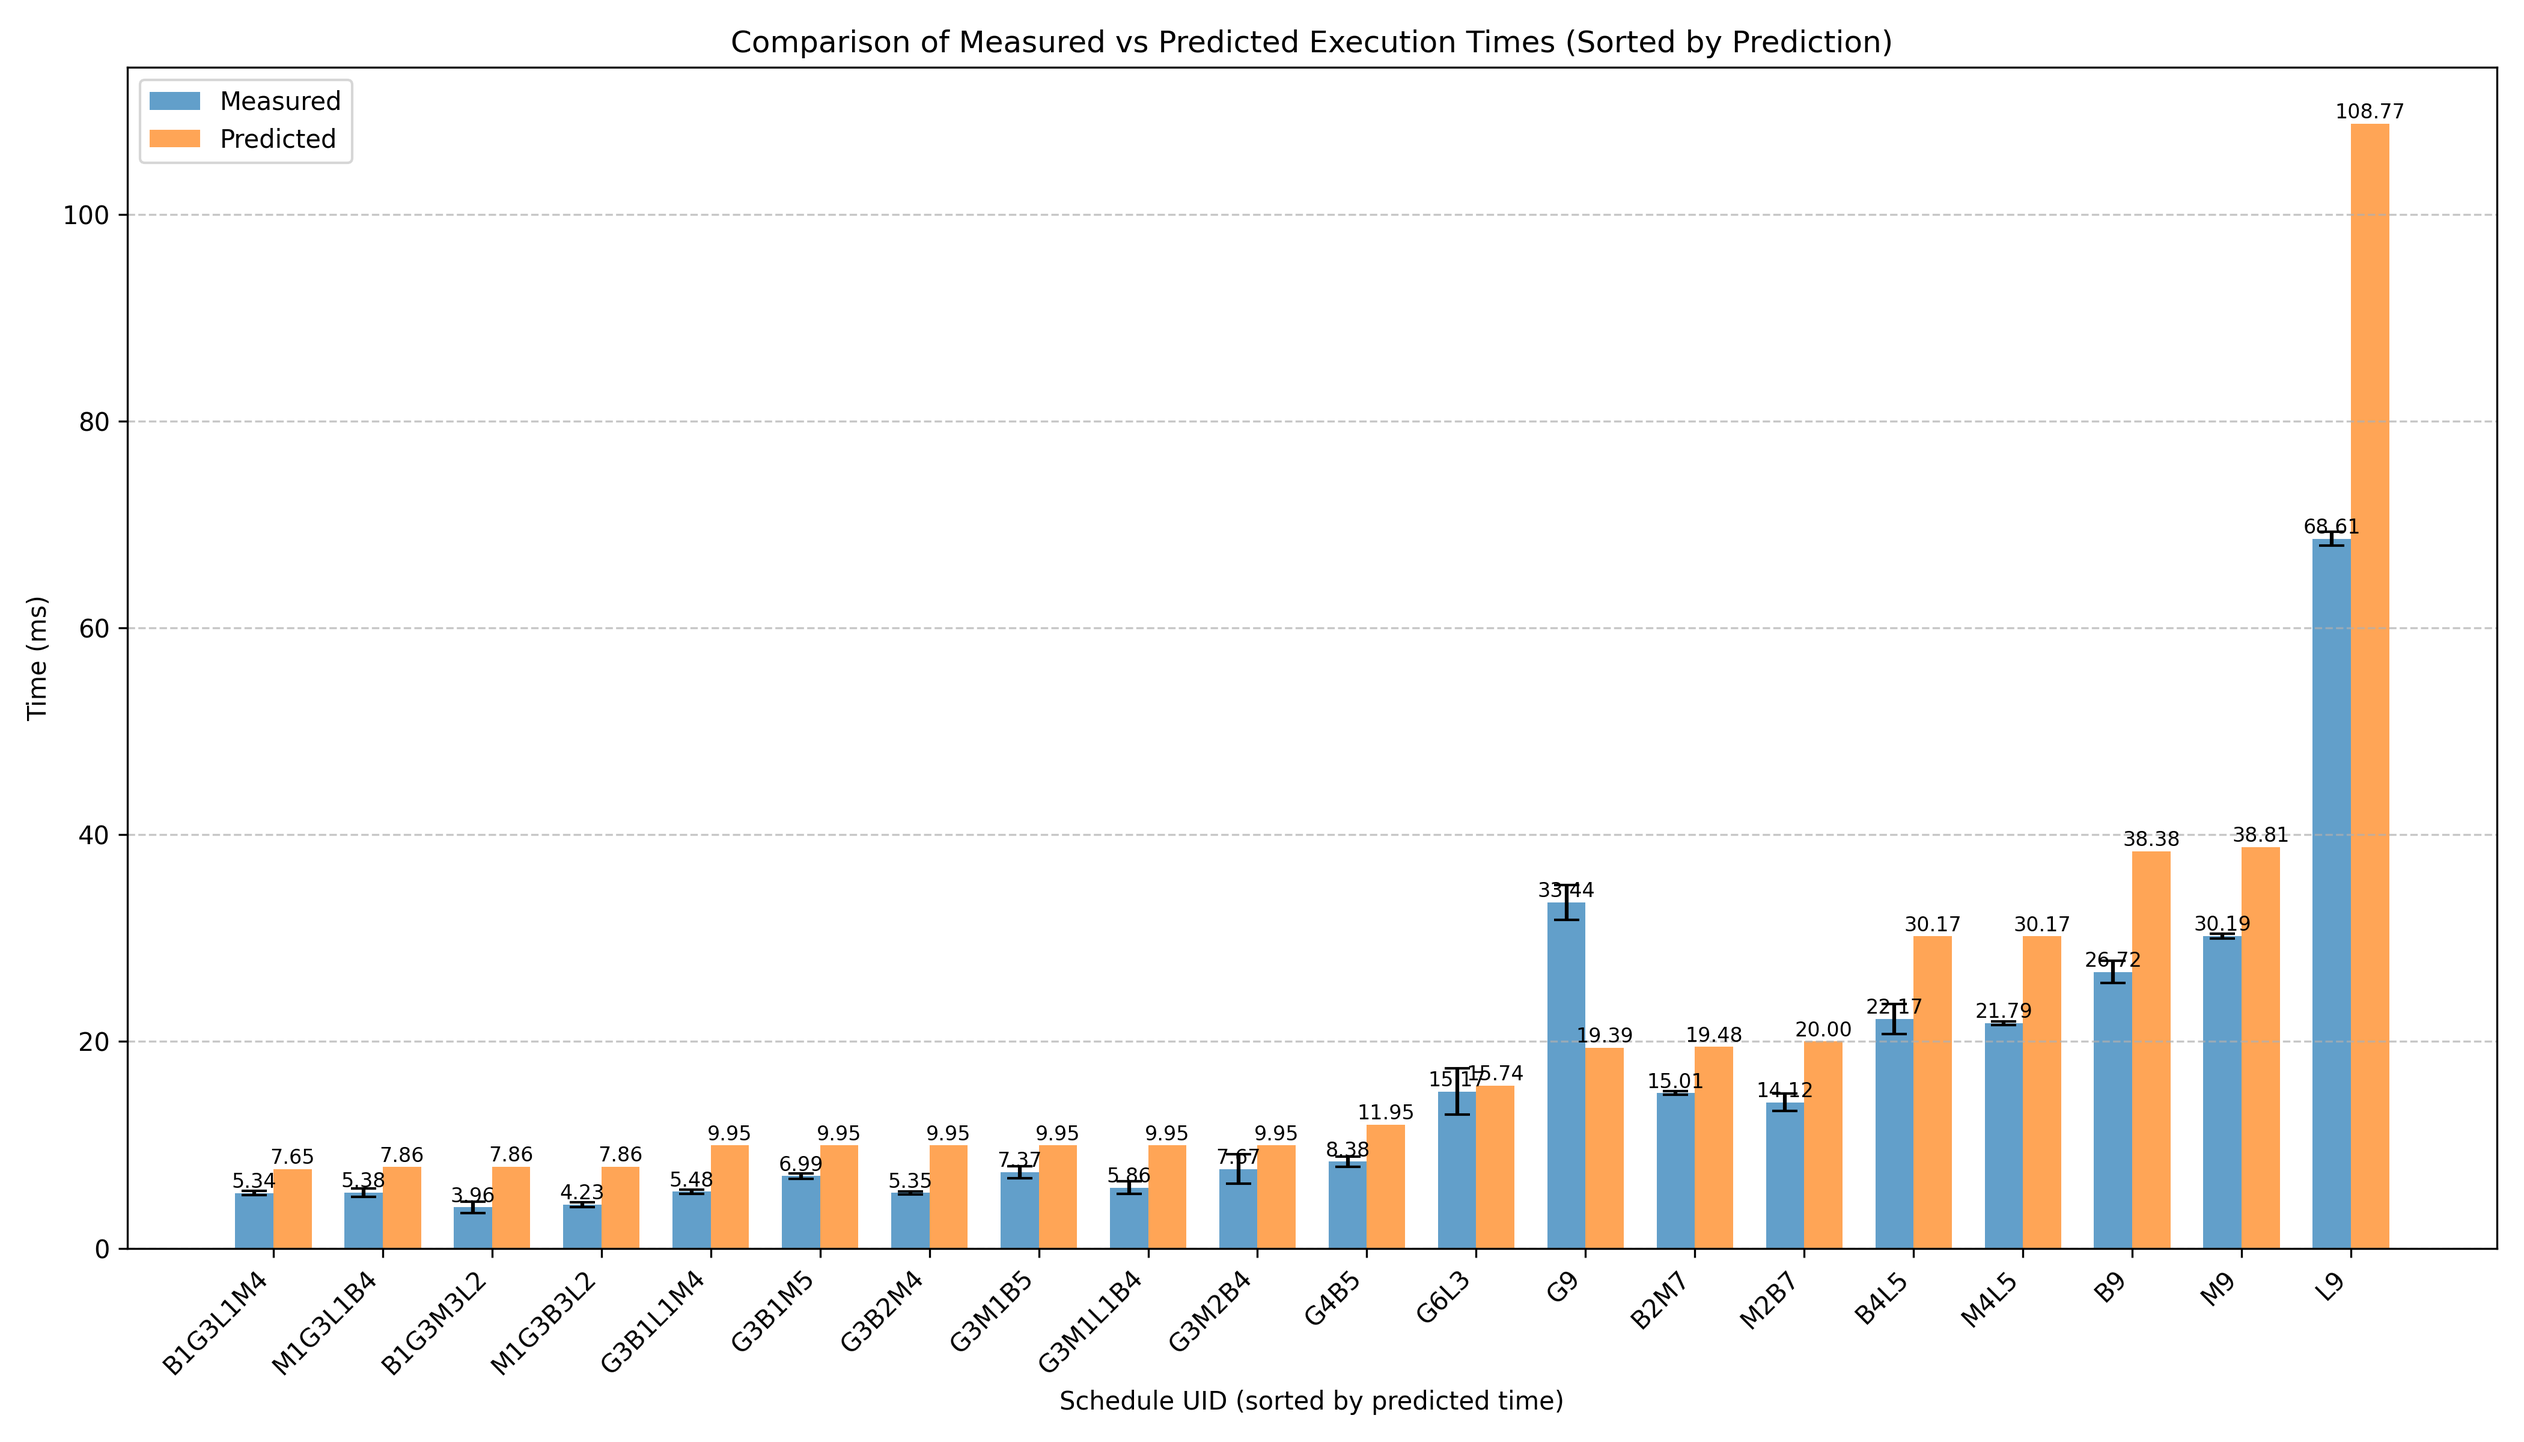
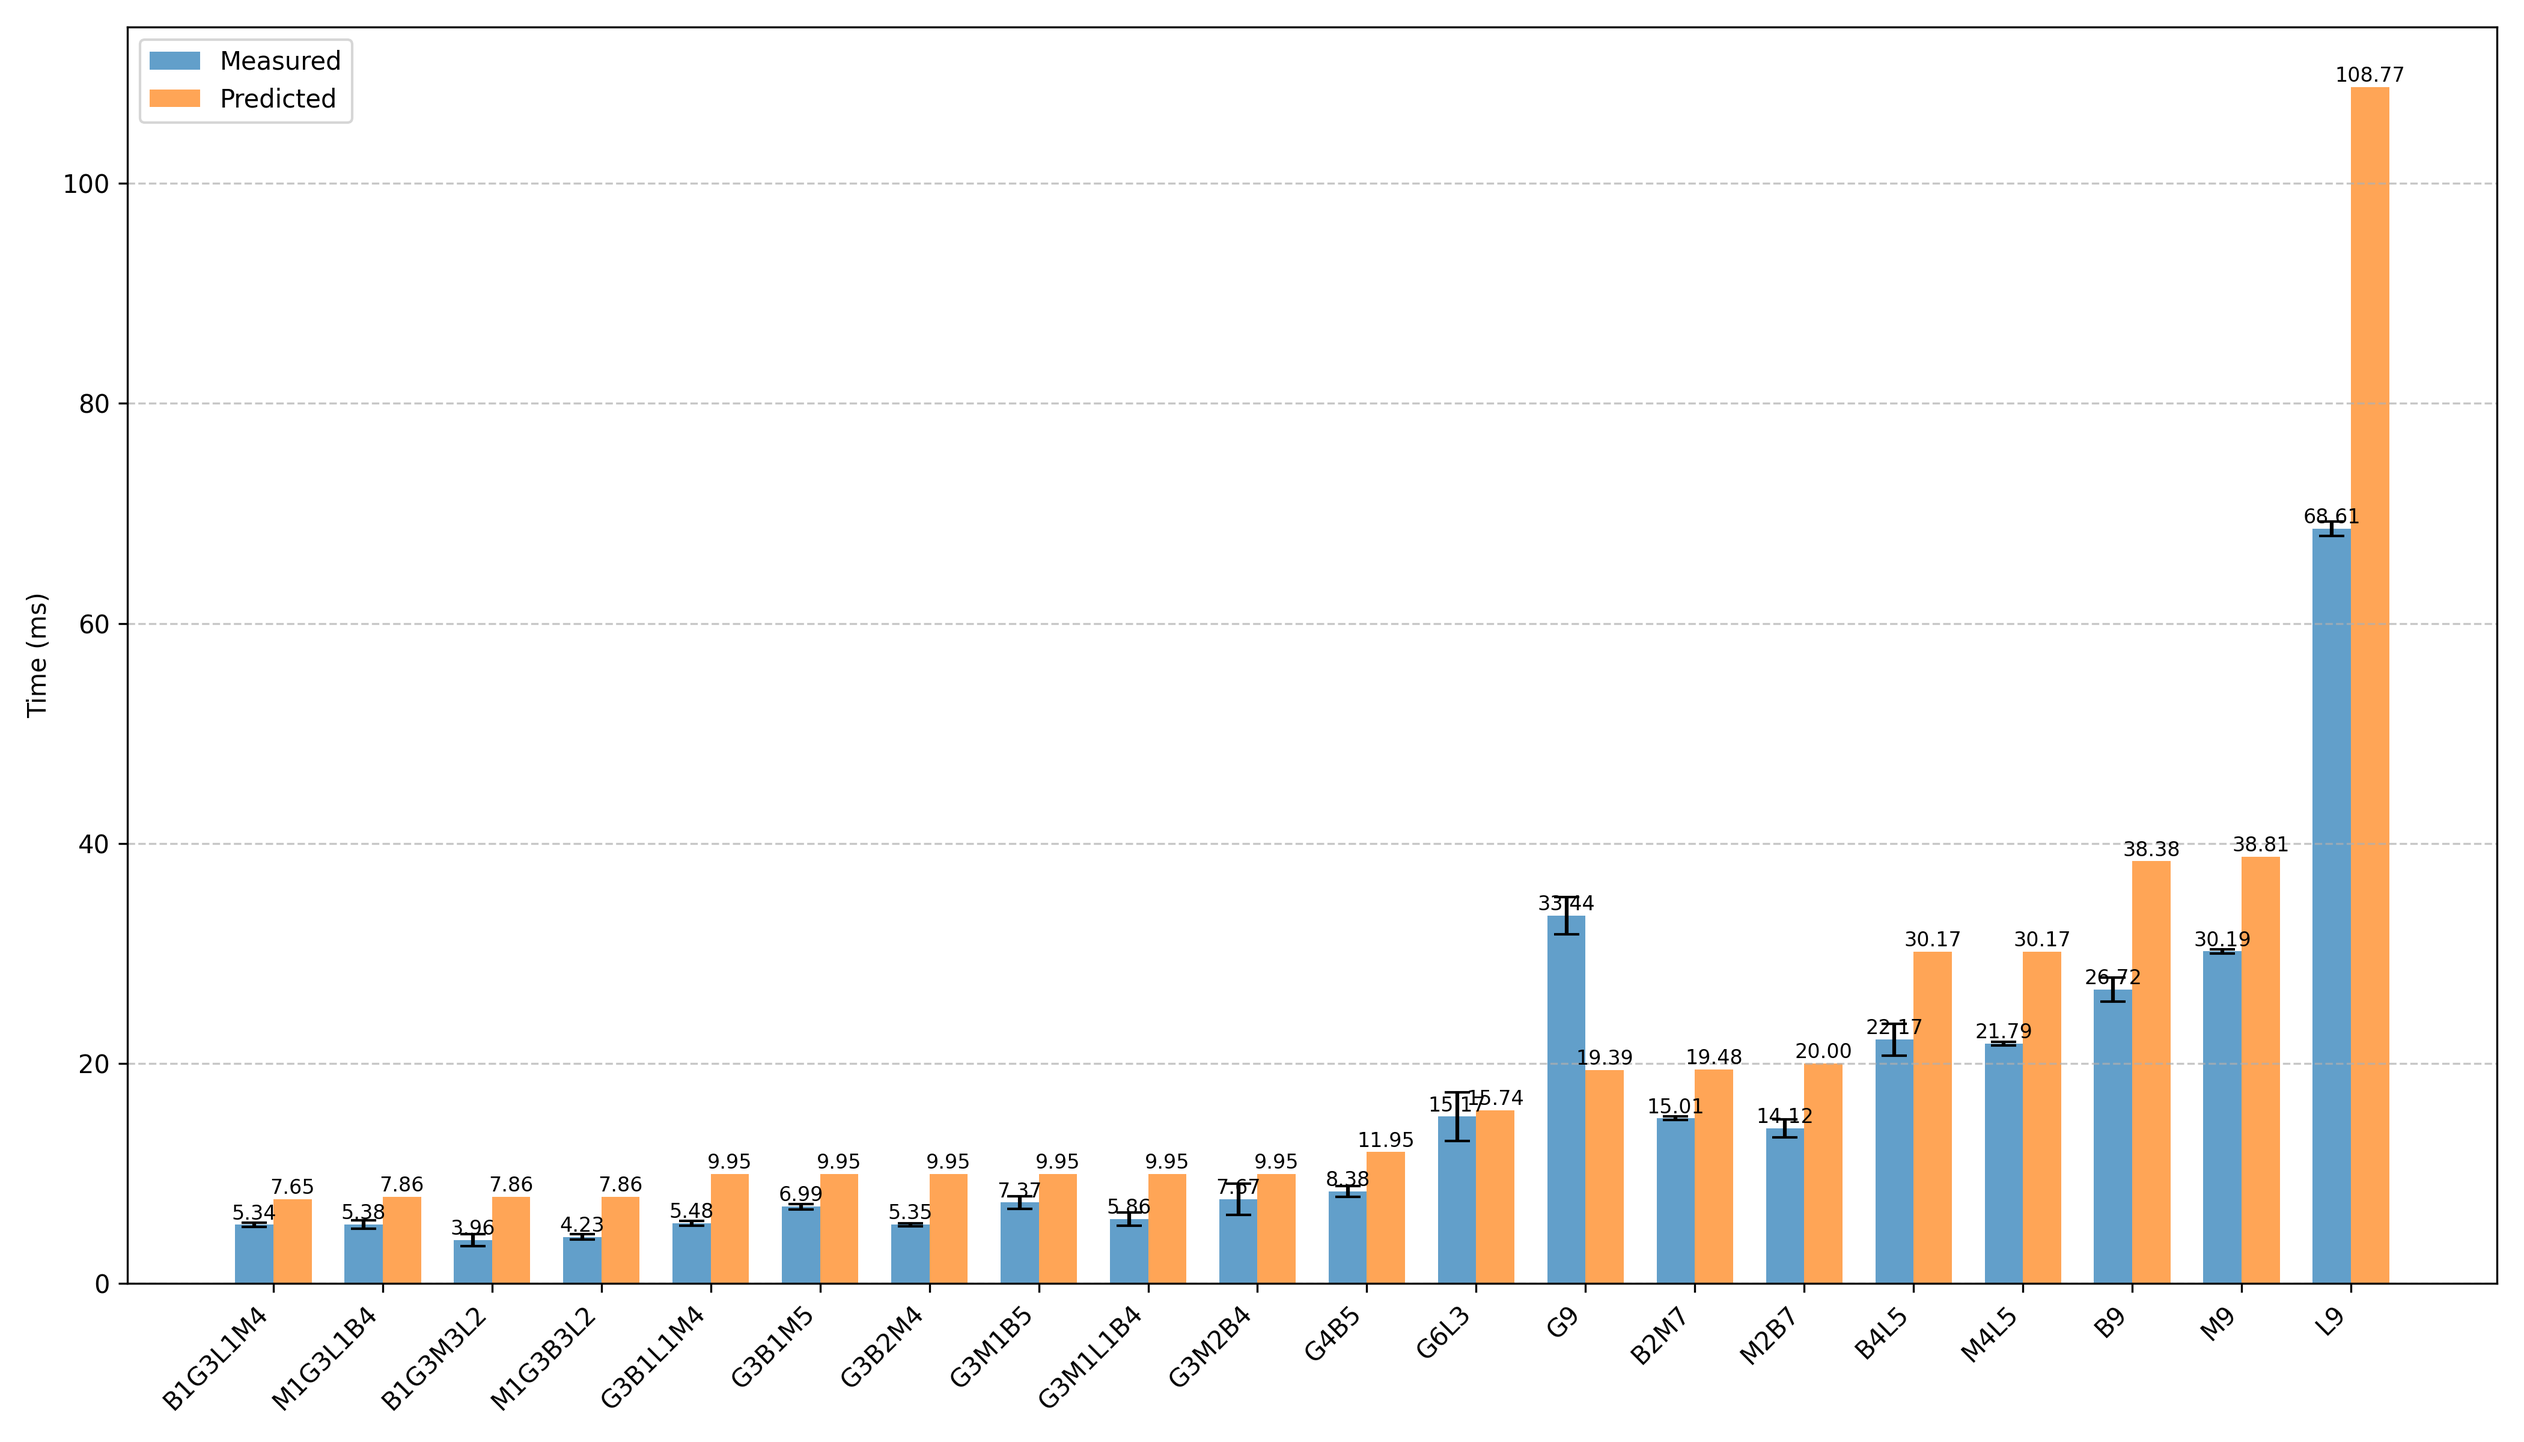
s

diff --git a/scripts/collect/04_parse_schedules_by_widest_advanced.py b/scripts/collect/04_parse_schedules_by_widest_advanced.py
@@ -381,11 +381,11 @@ def create_comparison_visualization(
     )
 
     # Add labels and title
-    plt.xlabel("Schedule UID (sorted by predicted time)")
+    # plt.xlabel("Schedule UID (sorted by predicted time)")
     plt.ylabel("Time (ms)")
-    plt.title(
-        "Comparison of Measured vs Predicted Execution Times (Sorted by Prediction)"
-    )
+    # plt.title(
+    #     "Comparison of Measured vs Predicted Execution Times (Sorted by Prediction)"
+    # )
     plt.xticks(x, [uid.split("-")[1] for uid in schedule_uids], rotation=45, ha="right")
     plt.legend()
 
@@ -463,7 +463,7 @@ def create_line_comparison_chart(
 ):
     """Create a line-based visualization comparing measured and predicted execution times."""
     # Create figure with white background
-    plt.figure(figsize=(14, 8), facecolor="white")
+    plt.figure(figsize=(14, 6), facecolor="white")  # Reduced height from 8 to 6
 
     # Get x positions
     x = np.arange(len(schedule_uids))
@@ -474,8 +474,8 @@ def create_line_comparison_chart(
         predicted_times,
         "r--",
         marker="s",
-        markersize=8,
-        linewidth=2,
+        markersize=14,  # Increased from 14 to 20
+        linewidth=1,  # Reduced from 2 to 1
         label="Predicted",
         alpha=0.9,
     )
@@ -484,33 +484,33 @@ def create_line_comparison_chart(
         measured_times,
         "b-",
         marker="^",
-        markersize=8,
-        linewidth=2,
+        markersize=14,  # Increased from 14 to 20
+        linewidth=1,  # Reduced from 2 to 1
         label="Measured (Arithmetic)",
         alpha=0.9,
     )
 
-    # Add error bars to measured data
+    # Add error bars to measured data - made more prominent
     plt.errorbar(
         x,
         measured_times,
         yerr=error_bars,
         fmt="none",
         ecolor="blue",
-        capsize=5,
-        alpha=0.7,
-        elinewidth=1.5,
+        capsize=8,  # Increased from 5 to 8
+        alpha=0.9,  # Increased from 0.7 to 0.9
+        elinewidth=2,  # Reduced from 3 to 2
     )
 
     # Add labels and title
-    plt.xlabel("Execution Schedule", fontsize=14, labelpad=10)
+    # plt.xlabel("Execution Schedule", fontsize=14, labelpad=10)
     plt.ylabel("Time (Execution in ms)", fontsize=14, labelpad=10)
 
-    # Add sort note to title if provided
-    if sort_note:
-        plt.title(f"{title}\n(Sorted {sort_note})", fontsize=16, pad=20)
-    else:
-        plt.title(title, fontsize=16, pad=20)
+    # Title is now commented out
+    # if sort_note:
+    #     plt.title(f"{title}\n(Sorted {sort_note})", fontsize=16, pad=20)
+    # else:
+    #     plt.title(title, fontsize=16, pad=20)
 
     # Add UID labels on x-axis
     shortened_uids = [uid.split("-")[1] for uid in schedule_uids]
@@ -521,7 +521,7 @@ def create_line_comparison_chart(
     plt.grid(True, linestyle="--", alpha=0.7, which="both")
 
     # Create legend with larger font and better position
-    plt.legend(fontsize=14, loc="upper left")
+    plt.legend(fontsize=18, loc="upper left", markerscale=1.5)  # Increased font size and marker scale
 
     # Set y-axis to start at 0
     # Calculate a good maximum y value that leaves room for highest point plus error bar
@@ -531,9 +531,9 @@ def create_line_comparison_chart(
     # Make plot lines thicker
     for line in plt.gca().get_lines():
         if line.get_linestyle() == "--":  # Predicted line
-            line.set_linewidth(2.5)
+            line.set_linewidth(1.5)  # Reduced from 3 to 1.5
         elif line.get_marker() == "^":  # Measured line
-            line.set_linewidth(2.5)
+            line.set_linewidth(1.5)  # Reduced from 3 to 1.5
 
     # Add minor tick lines for better readability
     plt.minorticks_on()
